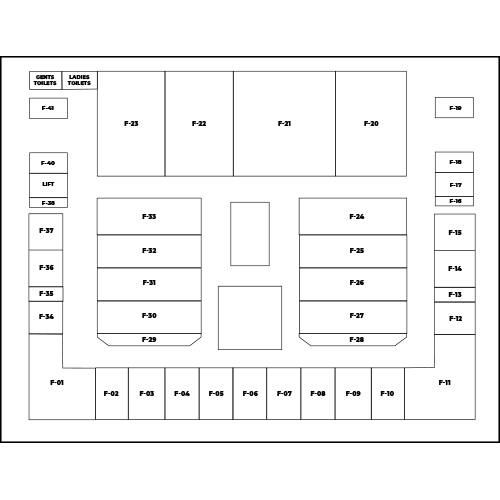
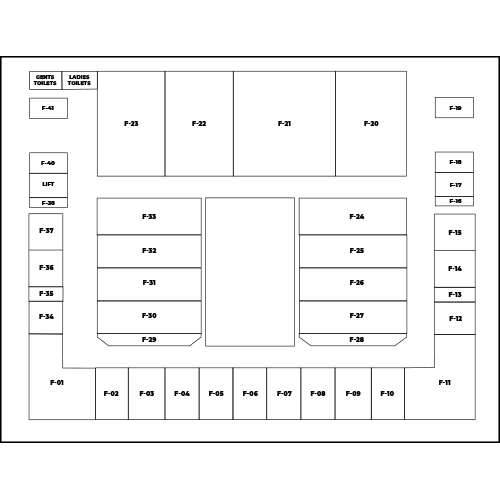
App Completed, UI and First Floor Route need Attention

Changed region(s): [[0.42, 0.39, 0.6, 0.54], [0.42, 0.69, 0.57, 0.72], [0.42, 0.57, 0.57, 0.6]]

diff --git a/FYPMallManagmentSystemandIPS/app/src/main/java/com/example/fypmallmanagmentsystemandips/Categories.java b/FYPMallManagmentSystemandIPS/app/src/main/java/com/example/fypmallmanagmentsystemandips/Categories.java
@@ -11,6 +11,7 @@ import android.util.Log;
 import android.view.View;
 import android.widget.AdapterView;
 import android.widget.ArrayAdapter;
+import android.widget.ImageView;
 import android.widget.Spinner;
 
 import com.example.fypmallmanagmentsystemandips.Adapters.CategoriesRecViewAdapter;
@@ -21,22 +22,27 @@ import com.google.firebase.database.DatabaseError;
 import com.google.firebase.database.DatabaseReference;
 import com.google.firebase.database.FirebaseDatabase;
 import com.google.firebase.database.ValueEventListener;
+import com.squareup.picasso.Picasso;
 
 import java.util.ArrayList;
 
 public class Categories extends AppCompatActivity {
 
     Spinner spnCategories;
-    MaterialButton btnSelect;
+    ImageView imgCategory;
+    MaterialButton btnSelect,btnShowMap;
     String[] categories1;
+    String[] name = new String[100];
     ArrayList<String> shopName = new ArrayList<>();
     ArrayList<String> categoryArray = new ArrayList<>();
     ArrayList<String> test = new ArrayList<>();
     String categorySelected;
+    String ShopAddress;
     int shopNameSize;
     RecyclerView categoryRecycler;
     FirebaseDatabase database;
     int position;
+    String url = "http://192.168.100.20:5000";
 
     @Override
     protected void onCreate(Bundle savedInstanceState) {
@@ -48,11 +54,17 @@ public class Categories extends AppCompatActivity {
         progressDialog.show();
         ProgressDialog progressDialog1 = new ProgressDialog(Categories.this);
         progressDialog1.setTitle("Loading Shops Categories");
+        // Setting Up Progress Dialog for Loading Image
+        ProgressDialog progressDialog2 = new ProgressDialog(Categories.this);
+        progressDialog2.setTitle("Fetching Map");
+        progressDialog2.setMessage("It will take few seconds.");
 
         // Declaring Elements
         spnCategories = findViewById(R.id.spnCategories);
         btnSelect = findViewById(R.id.btnSelect);
+        btnShowMap = findViewById(R.id.btnShowMap);
         categoryRecycler = findViewById(R.id.categoryRecycler);
+        imgCategory = findViewById(R.id.imgCategory);
 
         // Loading Data to Spinner
         categories1 = getResources().getStringArray(R.array.shopCategory);
@@ -141,6 +153,46 @@ public class Categories extends AppCompatActivity {
                 adapter.setCategory(categories);
                 categoryRecycler.setAdapter(adapter);
                 categoryRecycler.setLayoutManager(new LinearLayoutManager(Categories.this));
+            }
+        });
+        // Show Map Button Listener
+        btnShowMap.setOnClickListener(new View.OnClickListener() {
+            @Override
+            public void onClick(View view) {
+                Log.d("test", String.valueOf(test));
+                progressDialog2.show();
+                ShopAddress = "";
+                int iterator = 0;
+                for (int i = 0;i < test.size();i++){
+                    if (test.get(i).contains(categorySelected)){
+                        name[iterator] = shopName.get(i);
+                        iterator++;
+                    }
+                }
+                for (int i = 0; i < iterator;i++){
+                    DatabaseReference addrRef = database.getReference("ShopDetails").child(name[i]).child("shopAddress");
+                    int finalI = i;
+                    int finalR = iterator;
+                    addrRef.addListenerForSingleValueEvent(new ValueEventListener() {
+                        @Override
+                        public void onDataChange(@NonNull DataSnapshot snapshot) {
+                            if (snapshot != null){
+                                ShopAddress = ShopAddress + snapshot.getValue();
+                            }
+                            if (finalI == finalR-1){
+                                Picasso.get().setLoggingEnabled(true);
+                                Picasso.get().load(url+"/from/"+ShopAddress).into(imgCategory);
+                                progressDialog2.dismiss();
+                            }
+
+                        }
+
+                        @Override
+                        public void onCancelled(@NonNull DatabaseError error) {
+
+                        }
+                    });
+                }
             }
         });
     }

diff --git a/FYPMallManagmentSystemandIPS/app/src/main/java/com/example/fypmallmanagmentsystemandips/SalesAlert.java b/FYPMallManagmentSystemandIPS/app/src/main/java/com/example/fypmallmanagmentsystemandips/SalesAlert.java
@@ -9,6 +9,7 @@ import android.app.ProgressDialog;
 import android.os.Bundle;
 import android.util.Log;
 import android.view.View;
+import android.widget.ImageView;
 import android.widget.ListView;
 
 import com.example.fypmallmanagmentsystemandips.Adapters.SalesRecViewAdapter;
@@ -19,6 +20,7 @@ import com.google.firebase.database.DatabaseError;
 import com.google.firebase.database.DatabaseReference;
 import com.google.firebase.database.FirebaseDatabase;
 import com.google.firebase.database.ValueEventListener;
+import com.squareup.picasso.Picasso;
 
 import java.util.ArrayList;
 
@@ -31,11 +33,13 @@ public class SalesAlert extends AppCompatActivity {
     MaterialButton btnShowOnMap;
     ArrayList<String> shopName = new ArrayList<>();
     ArrayList<String> shopOffers = new ArrayList<>();
-    ArrayList<ArrayList> test = new ArrayList<>();
+    ImageView imgSales;
     int shopNameSize;
     int iterator;
     String shpNm;
     String shpOff;
+    String ShopAddress;
+    String url = "http://192.168.100.20:5000";
 
     @Override
     protected void onCreate(Bundle savedInstanceState) {
@@ -48,10 +52,15 @@ public class SalesAlert extends AppCompatActivity {
         ProgressDialog progressDialog1 = new ProgressDialog(SalesAlert.this);
         progressDialog1.setTitle("Loading Sales Offers");
         progressDialog.show();
+        // Setting Up Progress Dialog for Loading Image
+        ProgressDialog progressDialog2 = new ProgressDialog(SalesAlert.this);
+        progressDialog2.setTitle("Fetching Map");
+        progressDialog2.setMessage("It will take few seconds.");
 
         // Initialising View Elements
         salesRec = findViewById(R.id.salesRec);
         btnShowOnMap = findViewById(R.id.btnShowOnMap);
+        imgSales = findViewById(R.id.imgSales);
 
         // Initiating Instance to firebase database.
         database = FirebaseDatabase.getInstance();
@@ -127,20 +136,29 @@ public class SalesAlert extends AppCompatActivity {
         btnShowOnMap.setOnClickListener(new View.OnClickListener() {
             @Override
             public void onClick(View view) {
-                Log.d("Shop Names : ", String.valueOf(shopName));
-                Log.d("Shop Offers : ", String.valueOf(test));
+                progressDialog2.show();
+                ShopAddress = "";
+                for (int i = 0; i < shopName.size(); i++){
+                    DatabaseReference addrRef = database.getReference("ShopDetails").child(shopName.get(i)).child("shopAddress");
+                    int finalI = i;
+                    addrRef.addListenerForSingleValueEvent(new ValueEventListener() {
+                        @Override
+                        public void onDataChange(@NonNull DataSnapshot snapshot) {
+                            if (snapshot != null){
+                                ShopAddress = ShopAddress + snapshot.getValue();
+                            }
+                            if (finalI == shopName.size()-1){
+                                Picasso.get().setLoggingEnabled(true);
+                                Picasso.get().load(url+"/from/"+ShopAddress).into(imgSales);
+                                progressDialog2.dismiss();
+                            }
+                        }
+                        @Override
+                        public void onCancelled(@NonNull DatabaseError error) {
+                        }
+                    });
+                }
             }
         });
-
-//        sales.add(new Sales("Nike","Upto 60% off."));
-//        sales.add(new Sales("Puma","Upto 60% off."));
-//        sales.add(new Sales("Adidas","Upto 60% off."));
-//        sales.add(new Sales("Mcdonalds","Buy one get one free"));
-//        sales.add(new Sales("Airlink",("Upto 10% off."+"\n"+"Hello")));
-//        // Sales Adapter
-//        SalesRecViewAdapter adapter = new SalesRecViewAdapter();
-//        adapter.setSales(sales);
-//        salesRec.setAdapter(adapter);
-//        salesRec.setLayoutManager(new LinearLayoutManager(SalesAlert.this));
     }
 }

diff --git a/fyp.py b/fyp.py
@@ -554,7 +554,7 @@ def lift(loc,dest):
 @app.route('/from/<List>')
 def plot(List):
     # Ground Floor Shop Array
-    GroundShop = ['G-01','G-02','G-03','G-04','G-05','G-06','G-07','G-08','G-09','G-11A','G-11','G-12','G-13','G-15','G-16',
+    GroundShop = ['G-01','G-02','G-03','G-04','G-05','G-06','G-07','G-08','G-09','G-11A','G-11','G-12','G-13','G-14','G-15','G-16',
     'G-17','G-18','G-19','G-20','G-21','G-22','G-22A','G-23','G-24','G-25','G-26','G-27','G-28','G-29','G-30','G-31','G-33','G-34','G-35','G-36'
     ,'G-37','G-38','G-39','G-40','G-40A','G-41','G-42','G-43']
 

diff --git a/FYPMallManagmentSystemandIPS/app/src/main/java/com/example/fypmallmanagmentsystemandips/LocateMe.java b/FYPMallManagmentSystemandIPS/app/src/main/java/com/example/fypmallmanagmentsystemandips/LocateMe.java
@@ -37,7 +37,7 @@ public class LocateMe extends AppCompatActivity {
     ArrayList<String> currLoc = new ArrayList<>();
     ArrayList<String> DestLoc = new ArrayList<>();
     String currAddr,destAddr,currName,destName;
-    String url = "http://192.168.43.133:5000";
+    String url = "http://192.168.100.20:5000";
 
     private String slctLocation,slctDestination;        // Selected Options in Spinner
 
